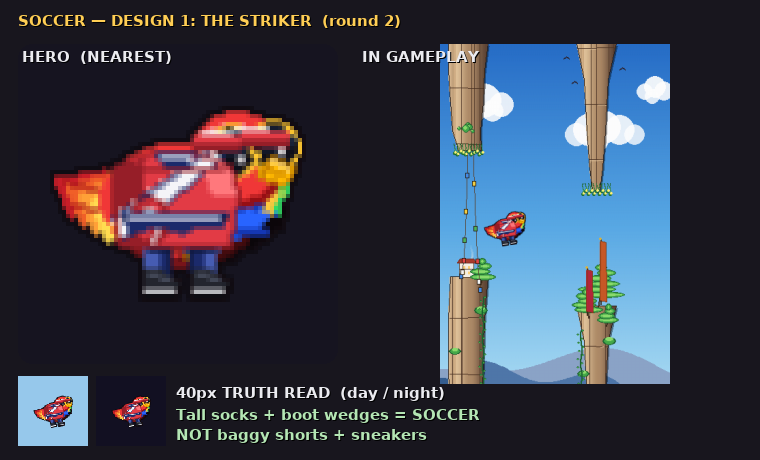
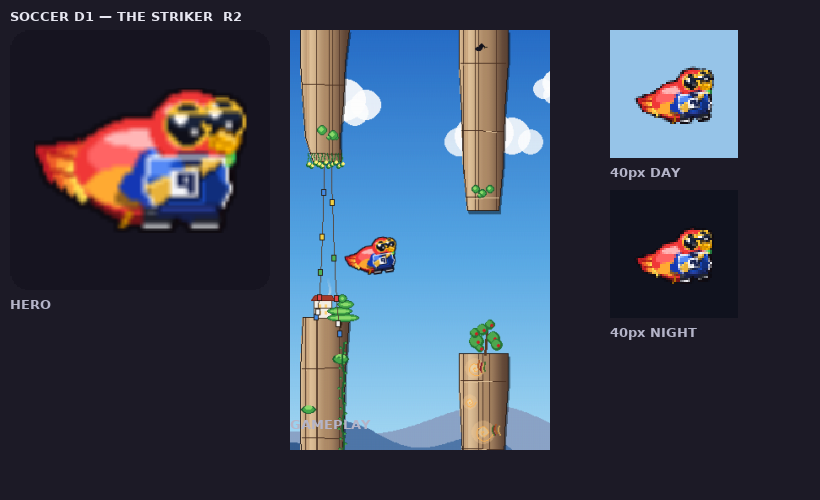
Soccer D1 Striker R2: blue jersey, block number, sock rim-light
Claude-Session: https://claude.ai/code/session_01HafGQfRZVDiGkQqpJPr5Cm

diff --git a/tools/soccer_candidates/design_1.py b/tools/soccer_candidates/design_1.py
@@ -9,13 +9,19 @@ top at y=HY+8 (=49), hem at HY+23 (=64). That seats the shirt cleanly BELOW the
 macaw head; nothing rises above y=49 into the face. NO headband — soccer players
 wear no forehead band, so the crown stays open like the ball-cap baseball look.
 
-The read is carried by (1) a vivid scarlet-orange jersey with a bold white "9"
-and a diagonal gold sash — louder/more orange than macaw plumage so it reads as
-worn cloth, and (2) the full LEG KIT below the hem: two tall navy knee-high
-socks (each with a white hoop) dropping into dark forward-pointing boots. That
-socks+boots silhouette is the unmistakable football tell. Three cloth values
-keep the jersey round at 40px; a dark-navy contour ring holds the shape through
-the downscale.
+R2 fix (kills the macaw-on-macaw camouflage the R1 orange jersey caused):
+- Jersey is now a COOL ROYAL BLUE (#1B4FC8). Blue is maximally far from the
+  scarlet plumage in hue AND value, so the shirt mass reads as worn cloth on
+  both day and night sky instead of melting into the bird. A 1px bright-white
+  contour rings the whole jersey so the silhouette crisps at the 40px downscale.
+- The squad number is a BOLD FLAT-FILL BLOCK "9" on a white plate (white panel,
+  navy numeral), ~6px tall, centred at HX-2 / HY+13..18, so it stays a legible
+  glyph after downscale instead of a thin loop that vanishes.
+- The LEG KIT is rebuilt for night: two navy socks with a BRIGHT WHITE sock-top
+  hoop, a guaranteed bare-body gap between the two sock pillars, and a lifted
+  navy value (#2C46B0) on the outer calf so the legs hold against night sky.
+- The sash is kept but loud — a 3px GOLD diagonal (#E8B23A) over a dark underlay,
+  now crossing the dark-blue jersey with real contrast.
 """
 import pygame
 
@@ -23,45 +29,47 @@ from game import store_skins
 from game.store_skins import HX, HY, CROWN_Y, _poly
 
 
-# Scarlet-ORANGE kit (pushed orange so it separates from Pip's red plumage and
-# reads as a worn shirt), gold sash, white squad mark, dark-navy trim + socks,
-# near-black boots. Three jersey values give roundness; the navy contour and the
-# sock rim-light survive the downscale on both day and night sky.
-_SOC_ORN    = (232, 82, 30)         # #E8521E scarlet-orange jersey body
-_SOC_ORN_D  = (158, 46, 14)         # cloth shadow / contour ring
-_SOC_ORN_H  = (255, 138, 78)        # lit shoulder / chest highlight
-_SOC_WHITE  = (244, 244, 248)       # #F4F4F8 squad number / hoops / sole tick
-_SOC_GOLD   = (244, 198, 86)        # #F4C656 diagonal shoulder sash
-_SOC_GOLD_H = (255, 228, 150)       # sash glint
-_SOC_NAVY   = (27, 42, 107)         # #1B2A6B shorts band + sock body + contour
-_SOC_NAVY_D = (15, 23, 60)          # near-black sock core / navy shadow
-_SOC_NAVY_H = (74, 98, 184)         # sock lit face / outer rim-light
+# Royal-blue kit (cool blue is maximally separated from Pip's red plumage in both
+# hue and value, so the shirt reads as cloth, not bird). Gold sash, white squad
+# plate, navy trim + socks, near-black boots. Three jersey values give roundness;
+# a bright-white contour + lifted sock navy survive the downscale on day + night.
+_SOC_BLUE   = (27, 79, 200)         # #1B4FC8 royal-blue jersey body
+_SOC_BLUE_D = (16, 46, 124)         # #102E7C cloth shadow / off-side shade
+_SOC_BLUE_H = (86, 138, 246)        # #568AF6 lit shoulder / chest highlight
+_SOC_WHITE  = (244, 244, 248)       # #F4F4F8 contour + number plate + hoops
+_SOC_GOLD   = (232, 178, 58)        # #E8B23A diagonal shoulder sash
+_SOC_GOLD_H = (255, 222, 130)       # sash glint
+_SOC_NAVY   = (22, 32, 78)          # #16204E sock body / collar / number glyph
+_SOC_NAVY_D = (12, 17, 44)          # near-black sock core / shadow plate
+_SOC_NAVY_H = (44, 70, 176)         # #2C46B0 lifted sock outer rim (holds on night)
 _SOC_BOOT   = (32, 34, 44)          # near-black boot
 _SOC_BOOT_H = (90, 96, 114)         # boot instep sheen
 
 
 def _sock_and_boot(surf, fx, lit_side):
     """One navy knee-high sock as a tall solid pillar + a forward-pointing boot
-    wedge under it. `lit_side` (+1 light from the right / -1) steers the rim-light
-    onto the OUTER calf edge so neither leg vanishes on night sky. Built as filled
-    polys so each leg holds as a distinct vertical column after the 40px downscale.
-    Spans HY+13..HY+24 so the calves emerge from under the shorts hem and the boot
-    pokes the lower outline like the baseball cleats."""
+    wedge under it. `lit_side` (+1 light from the right / -1) steers the lifted
+    rim-light onto the OUTER calf edge so neither leg vanishes on night sky. Built
+    as filled polys so each leg holds as a distinct vertical column after the 40px
+    downscale; the two callers leave a bare-body gap between the pillars so the
+    legs never bridge into a single bar. Spans HY+13..HY+24."""
     top, bot = HY + 13, HY + 24      # knee-under-hem to ankle (y=54..65)
     # Near-black core pillar (narrow tapered column) under everything, contour-
     # shifted to the outer side so the column reads round, not flat.
     core = [(fx - 3, top), (fx + 3, top), (fx + 2, bot), (fx - 2, bot)]
     _poly(surf, _SOC_NAVY_D, [(x - lit_side, y) for x, y in core])   # contour
     _poly(surf, _SOC_NAVY, core)
-    # Lit mid-navy front face down the inner column so the calf reads cylindrical.
+    # Lifted-navy lit face down the outer column so the calf reads cylindrical AND
+    # the bright edge survives the night downscale instead of crushing to black.
     face = [(fx, top), (fx + lit_side * 3, top),
             (fx + lit_side * 2, bot), (fx, bot)]
     _poly(surf, _SOC_NAVY_H, face)
-    # White hoop band near the sock top — the classic kit stripe, full calf width.
-    hb = top + 3
+    # BRIGHT WHITE sock-top hoop — the classic kit stripe, full calf width, made a
+    # fat 2px band so it reads as the brightest cue on the dark leg at 40px night.
+    hb = top + 2
     pygame.draw.line(surf, _SOC_WHITE, (fx - 3, hb), (fx + 3, hb), 2)
     pygame.draw.line(surf, _SOC_NAVY_D, (fx - 3, hb + 2), (fx + 3, hb + 2), 1)
-    # Rim-light tracing the OUTER calf edge so the sock holds on the night sky.
+    # Lifted rim-light tracing the OUTER calf edge so the sock holds on night sky.
     rx = fx + lit_side * 3
     pygame.draw.line(surf, _SOC_NAVY_H, (rx, top + 1), (rx - lit_side, bot - 1), 1)
 
@@ -80,49 +88,53 @@ def _sock_and_boot(surf, fx, lit_side):
 
 def _paint(surf, _a):
     # ── LEG KIT first (socks + boots) so the navy shorts band laps over the sock
-    #    tops and the legs read as worn UNDER the shorts. Two distinct pillars at
-    #    the feet line; outer edge of each is rim-lit so neither sock vanishes.
-    _sock_and_boot(surf, HX - 10, lit_side=-1)   # far leg, rim-light on its left
-    _sock_and_boot(surf, HX + 1,  lit_side=+1)   # near leg, rim-light on its right
+    #    tops and the legs read as worn UNDER the shorts. Two distinct pillars with
+    #    a guaranteed >=3px bare-body gap between them (HX-11 and HX+3 cores sit ~8px
+    #    apart at the calf), each outer edge rim-lit so neither sock vanishes.
+    _sock_and_boot(surf, HX - 11, lit_side=-1)   # far leg, rim-light on its left
+    _sock_and_boot(surf, HX + 3,  lit_side=+1)   # near leg, rim-light on its right
 
     # ── JERSEY — the EXACT baseball-SLUGGER polygon at the HX,HY anchor (top
     #    y=HY+8=49, hem y=HY+23=64), so the shirt seats cleanly BELOW the head and
-    #    nothing rises into the face. Scarlet-orange fill → off-side shade → near
+    #    nothing rises into the face. Royal-blue fill → off-side shade → near
     #    shoulder highlight gives the cloth three values so it stays round at 40px.
     jersey = [(HX - 13, HY + 8), (HX - 14, HY + 18), (HX - 10, HY + 23),
               (HX + 8, HY + 23), (HX + 11, HY + 18), (HX + 9, HY + 8)]
-    _poly(surf, _SOC_ORN, jersey)
-    _poly(surf, _SOC_ORN_D, [(HX + 4, HY + 9), (HX + 11, HY + 18),
-                             (HX + 8, HY + 23), (HX + 5, HY + 22)])   # off-side shade
-    _poly(surf, _SOC_ORN_H, [(HX - 12, HY + 9), (HX - 6, HY + 9),
-                             (HX - 7, HY + 14), (HX - 13, HY + 13)])  # lit shoulder
+    _poly(surf, _SOC_BLUE, jersey)
+    _poly(surf, _SOC_BLUE_D, [(HX + 4, HY + 9), (HX + 11, HY + 18),
+                              (HX + 8, HY + 23), (HX + 5, HY + 22)])   # off-side shade
+    _poly(surf, _SOC_BLUE_H, [(HX - 12, HY + 9), (HX - 6, HY + 9),
+                              (HX - 7, HY + 14), (HX - 13, HY + 13)])  # lit shoulder
 
     # ── DIAGONAL GOLD shoulder sash, shoulder-to-hip — the modern outfield mark.
-    #    Clipped to the jersey box so it never leaks past the contour; a glint line
-    #    keeps it bright against the night sky.
+    #    Clipped to the jersey box so it never leaks past the contour; a dark
+    #    underlay + bright glint keep the 3px gold reading on the night sky.
     clip_prev = surf.get_clip()
     surf.set_clip(pygame.Rect(HX - 14, HY + 7, 26, 17))
-    sash = [(HX - 13, HY + 16), (HX - 11, HY + 21),
-            (HX + 9, HY + 9), (HX + 7, HY + 8)]
+    sash = [(HX - 13, HY + 16), (HX - 10, HY + 22),
+            (HX + 9, HY + 9), (HX + 6, HY + 8)]
+    _poly(surf, _SOC_NAVY_D, [(x, y + 1) for x, y in sash])          # dark underlay
     _poly(surf, _SOC_GOLD, sash)
     pygame.draw.line(surf, _SOC_GOLD_H, (HX - 12, HY + 16), (HX + 8, HY + 8), 1)
     surf.set_clip(clip_prev)
 
-    # ── Navy crew COLLAR + dark contour RING so the jersey reads as a team shirt
-    #    and the whole shape crisps at the downscale.
+    # ── Navy crew COLLAR + bright-WHITE contour RING so the jersey reads as a team
+    #    shirt and the whole shape crisps at the downscale against any sky.
     _poly(surf, _SOC_NAVY, [(HX - 4, HY + 7), (HX + 4, HY + 7),
                             (HX + 2, HY + 10), (HX - 2, HY + 10)])
     pygame.draw.line(surf, _SOC_WHITE, (HX - 3, HY + 8), (HX + 3, HY + 8), 1)
-    pygame.draw.polygon(surf, _SOC_ORN_D, jersey, 1)
+    pygame.draw.polygon(surf, _SOC_WHITE, jersey, 1)
 
-    # ── Bold white squad "9" at mid-chest (HX-2 column, HY+13..18) — the ONE
-    #    white focal up top. A loop bowl over a short tail, fattened so it survives
-    #    downscale; an orange shadow plate behind it lifts it off the cloth.
+    # ── Bold BLOCK squad "9" at mid-chest — a navy numeral on a white plate so the
+    #    glyph stays legible (high value contrast both ways) after the 40px
+    #    downscale, replacing the thin loop that vanished. Plate ~8x9, numeral ~6px.
     nx, ny = HX - 2, HY + 13
-    pygame.draw.ellipse(surf, _SOC_ORN_D, (nx - 4, ny - 1, 9, 8))     # shadow plate
-    pygame.draw.ellipse(surf, _SOC_WHITE, (nx - 3, ny - 1, 7, 6))     # bowl ring
-    pygame.draw.ellipse(surf, _SOC_ORN,  (nx - 1, ny + 1, 3, 3))      # bowl hole
-    pygame.draw.line(surf, _SOC_WHITE, (nx + 3, ny + 1), (nx + 1, ny + 7), 2)  # tail
+    pygame.draw.rect(surf, _SOC_NAVY_D, (nx - 4, ny - 1, 9, 9))       # plate shadow
+    pygame.draw.rect(surf, _SOC_WHITE, (nx - 4, ny - 1, 8, 8))        # white plate
+    # Flat-fill block "9": a solid bowl (top) + a down-stroke tail on the right.
+    pygame.draw.rect(surf, _SOC_NAVY, (nx - 2, ny, 5, 4))             # bowl block
+    pygame.draw.rect(surf, _SOC_WHITE, (nx, ny + 1, 2, 2))            # bowl hole
+    pygame.draw.rect(surf, _SOC_NAVY, (nx + 1, ny, 2, 6))             # right tail
 
     # ── SHORTS — a dark-navy band just below the jersey hem (HY+23..26) so a
     #    shorts-hem shows between shirt and socks. A scalloped pair of hem dips
